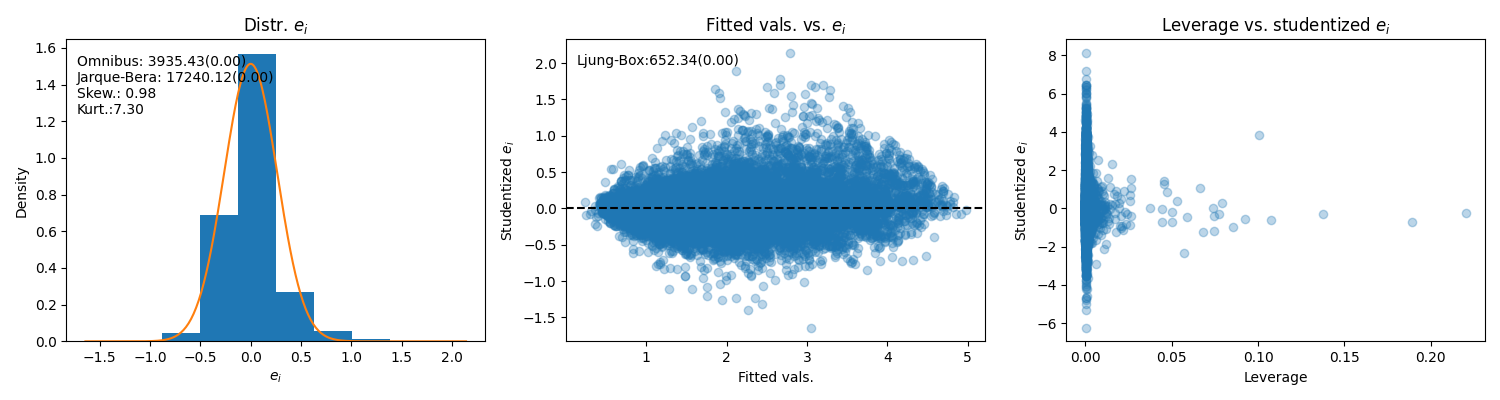
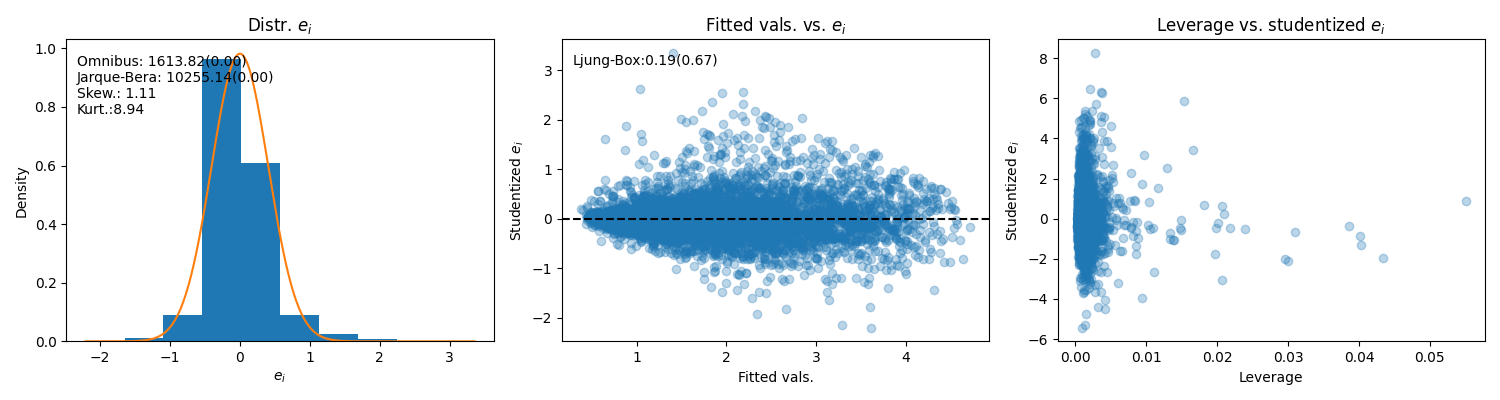
update mlr

diff --git a/mlr.py b/mlr.py
@@ -595,7 +595,7 @@ class MLR:
         self.X['_log1pTransformed_AveOccup'] = self.X['AveOccup'].apply(lambda x: np.log1p(x))
         self.X['_log1pTransformed_Population'] = self.X['Population'].apply(lambda x: np.log1p(x))
         
-    def plot_histograms_X(self):
+    def plot_histograms_X(self, filename):
         columns = [
             'MedInc',
             'HouseAge',
@@ -615,7 +615,7 @@ class MLR:
                 ax[i, j].set_title(columns[counter])
                 counter += 1
         plt.tight_layout()
-        plt.savefig('mlr_hist_X_california_housing.png')
+        plt.savefig(filename)
 
     def fit_mixed_effects_model_pca(self):
 
@@ -698,11 +698,12 @@ class MLR:
         )
         model.fit(X_train, y_train)
 
-        print(X_train.shape, y_train.shape, X_test.shape, y_test.shape)
-        exit()
+        self.y_hat = model.predict(X_test)
+        self.e_i = y_test - self.y_hat
 
-        self.y_hat = model.predict(X_xgb)
-        self.e_i = self.y.values - self.y_hat        
+        # needed so that model diagnostics can be run
+        self.X = X_test
+        self.y = y_test
 
         print(f"R²: {r2_score(self.y, self.y_hat):.3f}")
         print(f"RMSE: {root_mean_squared_error(self.y, self.y_hat):.3f}")
@@ -711,13 +712,13 @@ class MLR:
 
         self.ch = fetch_california_housing()
         self.preprocess()
-        self.plot_histograms_X()
-        self.partial_residuals_plots('mlr_diagnostics_partial_residuals_california_housing.png')
+        self.plot_histograms_X('output/mlr_hist_X_california_housing.png')
+        self.partial_residuals_plots('output/mlr_diagnostics_partial_residuals_california_housing.png')
 
-        # run diagnostics
-        self.partial_residuals_plots('mlr_diagnostics_partial_residuals_california_housing.png')
-        self.rj_vs_ei('mlr_diagnostics_rj_vs_ei_california_housing.png')
-        self.y_distribution(bins=np.arange(0, 5.25, 0.25), filename='mlr_y_distribution_california_housing.png')
+        # run dataset diagnostics
+        self.partial_residuals_plots('output/mlr_diagnostics_partial_residuals_california_housing.png')
+        self.rj_vs_ei('output/mlr_diagnostics_rj_vs_ei_california_housing.png')
+        self.y_distribution(bins=np.arange(0, 5.25, 0.25), filename='output/mlr_y_distribution_california_housing.png')
         self.diagnose_collinearity(center=False)
         
         # modelling
@@ -726,8 +727,8 @@ class MLR:
         # diagnostics
         self.compute_residuals_stats()
         self.compute_diagnostics()
-        self.plot_y_obs_vs_y_pred('mlr_y_obs_y_pred_california_housing.png')
-        self.plot_diagnostics('mlr_diagnostis_california_housing.png')
+        self.plot_y_obs_vs_y_pred('output/mlr_y_obs_y_pred_california_housing.png')
+        self.plot_diagnostics('output/mlr_diagnostis_california_housing.png')
 
     def example_mixed_effects_model(self):
 
